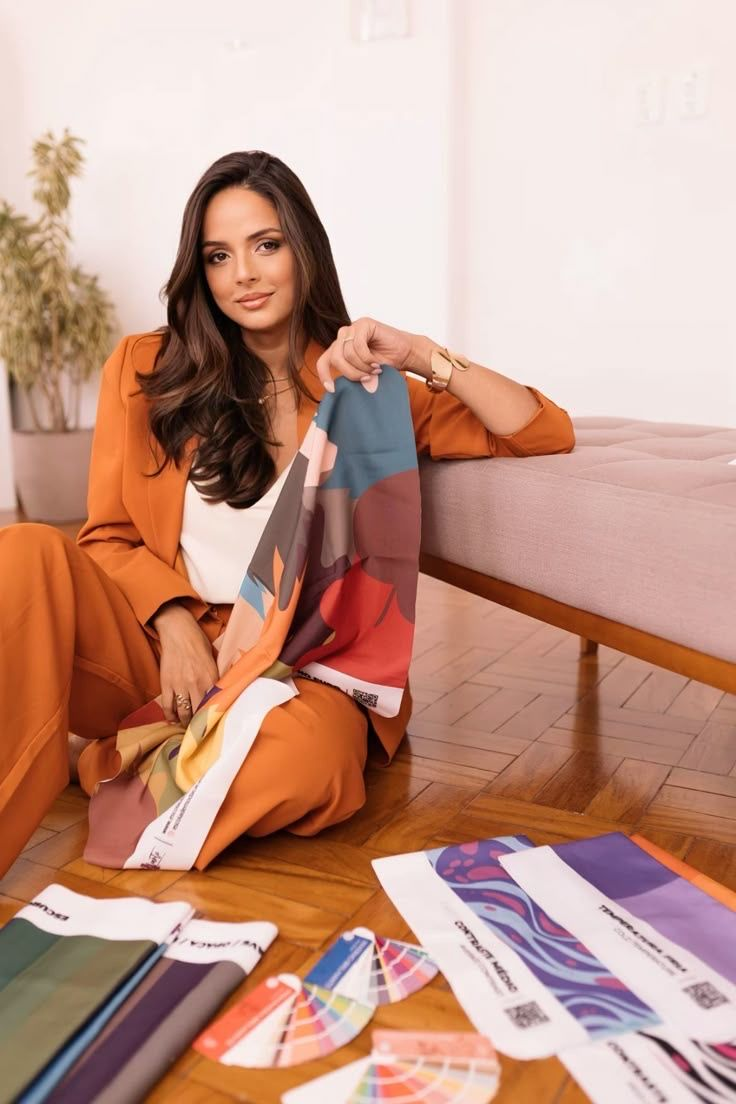
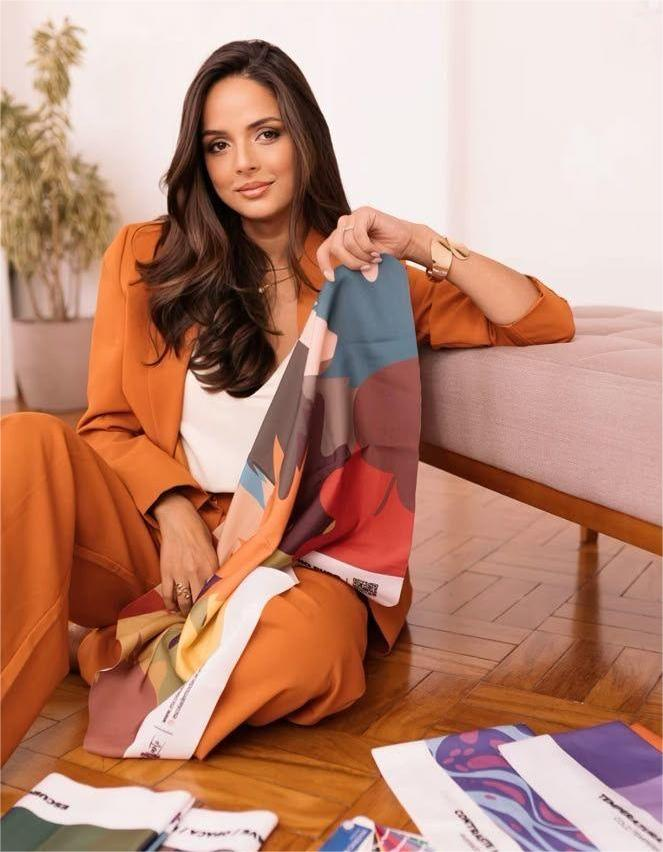
Update website image

diff --git a/src/pages/our-services/components/Layout410.jsx b/src/pages/our-services/components/Layout410.jsx
@@ -127,11 +127,11 @@ export function Layout410() {
                         </div>
                     </div>
                     <div
-                        className="grid grid-cols-1 overflow-hidden border border-border-primary bg-neutral-white md:sticky md:mb-[15vh] md:min-h-[70vh] md:grid-cols-2 z-40"
+                        className="grid grid-cols-1 overflow-hidden border border-border-primary bg-neutral-white md:sticky md:mb-[15vh] md:h-auto md:grid-cols-2 z-40"
                         style={{ top: "24vh" }}
                     >
                         <div className="order-first flex flex-col justify-center p-6 md:p-8 lg:p-8 md:order-first">
-                            <h2 className="mb-5 text-4xl font-bold leading-[1.2] md:mb-6 md:text-5xl lg:text-6xl">
+                            <h2 className="mb-5 text-3xl font-bold leading-[1.2] md:mb-6 md:text-4xl lg:text-5xl">
                                 Executive Presence, Personal Branding & Image Transformation
                             </h2>
                             <p className="mb-6">
@@ -157,7 +157,7 @@ export function Layout410() {
                                 loading="lazy"
                                 src="/images/our-services/img1.jpeg"
                                 alt="Personal Branding & Image Transformation"
-                                className="w-full h-full object-cover object-[50%_30%] rounded-none"
+                                className="w-full h-auto object-cover object-center rounded-none"
                             />
                         </div>
                     </div>
